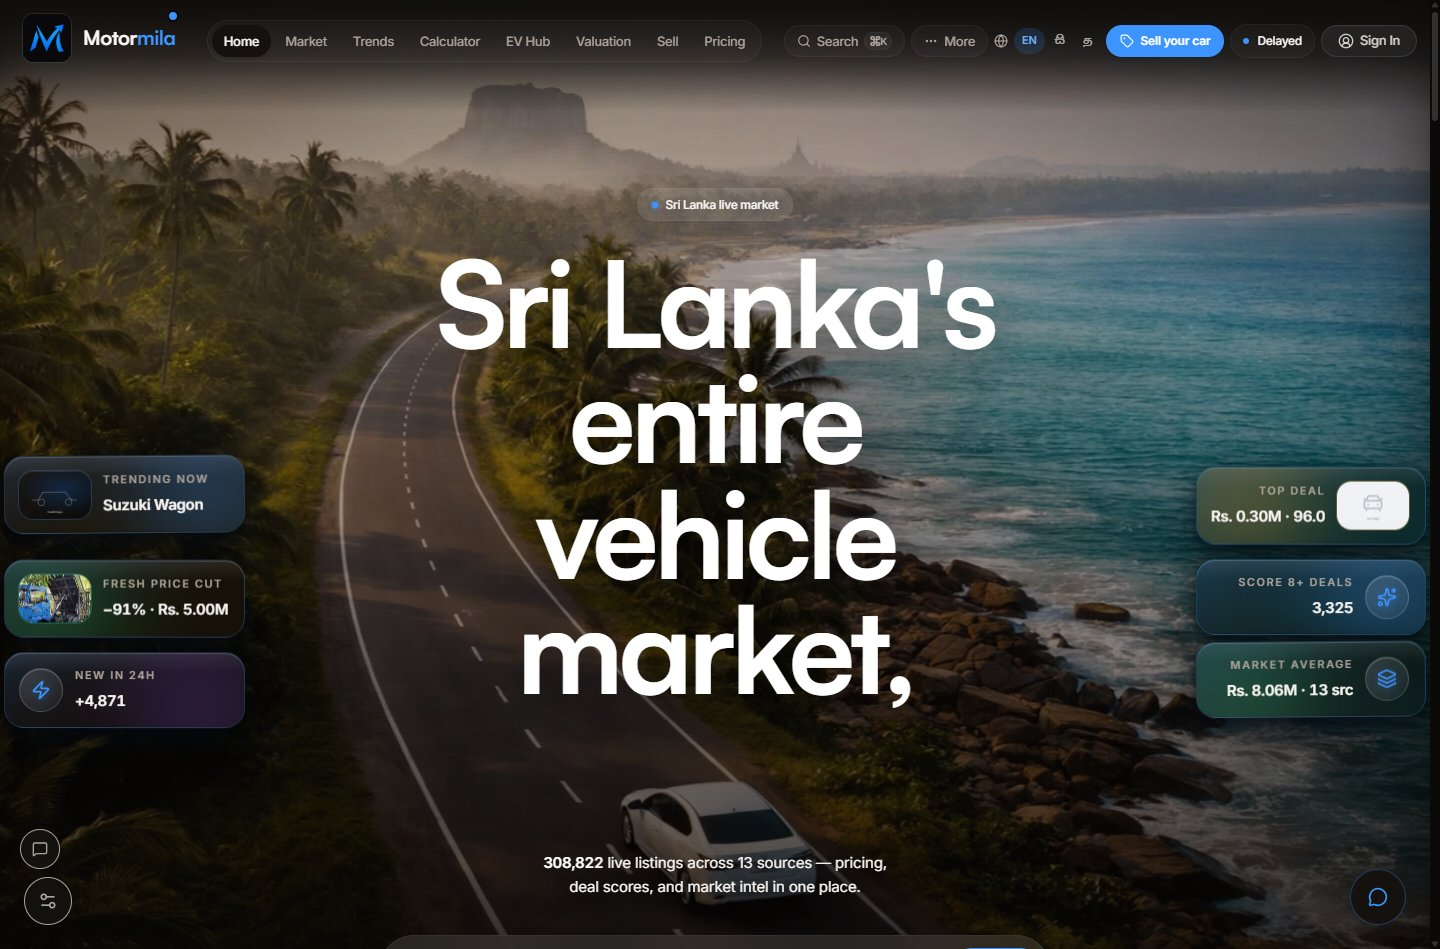
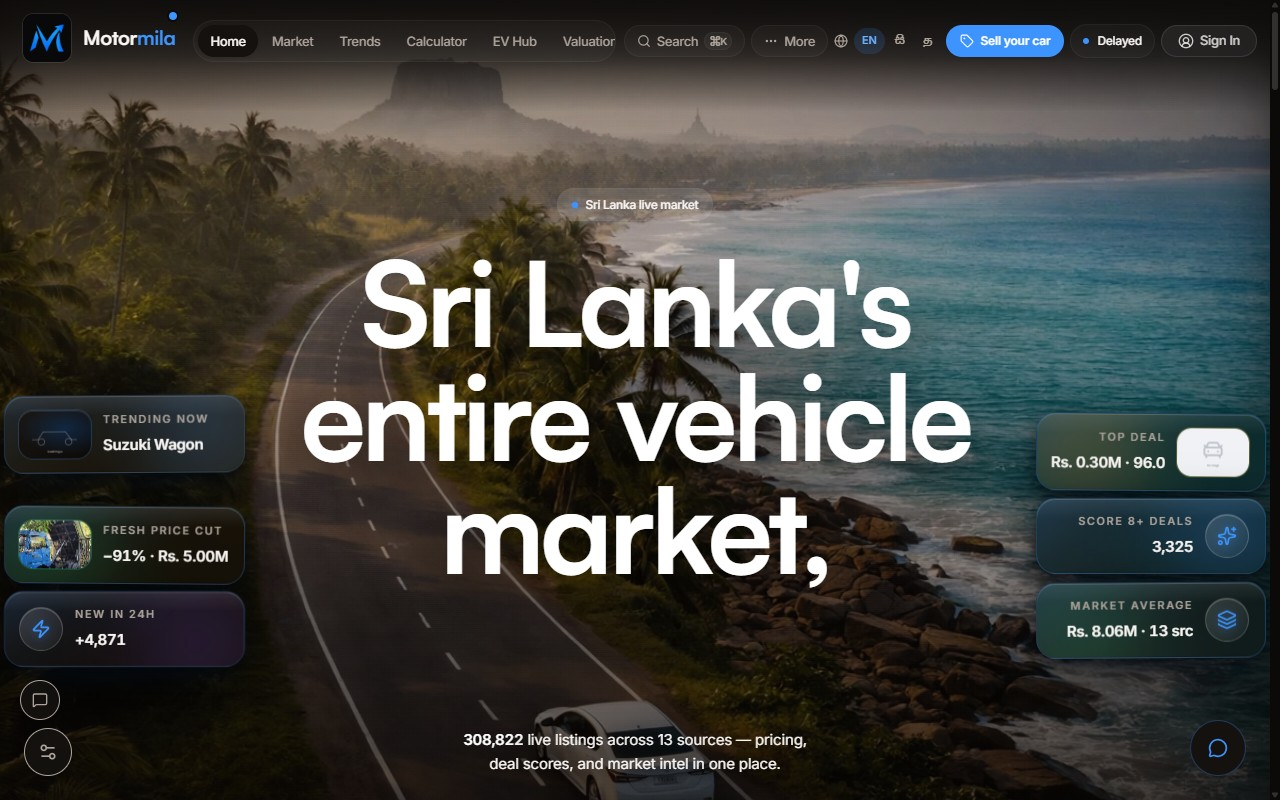
Remove concepts, update Motormila brand assets & screenshot, update hero fan to client sites

diff --git a/data/projects.ts b/data/projects.ts
@@ -48,8 +48,8 @@ export const PROJECTS: Project[] = [
     url: "https://propertylk-one.vercel.app/",
   },
   {
-    id: "motormila-lk",
-    title: "Motormila LK",
+    id: "motormila",
+    title: "Motormila",
     category: "Vehicle Market Intelligence",
     image: "/images/motormila.jpg",
     tags: ["Valuation Tools", "Market Trends", "AI Copilot"],
@@ -78,102 +78,6 @@ export const PROJECTS: Project[] = [
     role: "Platform architecture, civic UX, trilingual design system, public API engineering",
     year: "2026",
     url: "https://lankawa.vercel.app/",
-  },
-  {
-    id: "1",
-    title: "Cinnamon Oak Cafe",
-    category: "Cafe & Dining",
-    image: "https://images.unsplash.com/photo-1559925393-8be0ec4767c8?w=720&auto=format&fit=crop&q=72",
-    tags: ["Branding", "Menu Design", "UI/UX"],
-    description:
-      "A warm, tactile digital presence for a specialty café where every pixel reflects the aroma of hand-poured coffee.",
-    status: "Studio concept",
-    problem: "Local cafes often rely on social feeds and static menu PDFs that make the brand feel smaller than the in-store experience.",
-    solution: "Built a warm landing experience with menu-first content, strong photography direction, and clear booking/contact paths.",
-    outcome: "A reusable hospitality concept that shows how a cafe can feel premium without hiding the menu or next action.",
-    role: "Brand direction, UI design, responsive frontend",
-    year: "2025",
-    url: "https://ardeno-cinnamon-cafe.vercel.app",
-  },
-  {
-    id: "2",
-    title: "Lanka Fitness",
-    category: "Health & Wellness",
-    image: "https://images.unsplash.com/photo-1534438327276-14e5300c3a48?w=720&auto=format&fit=crop&q=72",
-    tags: ["Web App", "Membership Portal", "Branding"],
-    description:
-      "A high-energy digital platform for Sri Lanka's premier gym brand with class scheduling and membership management.",
-    status: "Studio concept",
-    problem: "Fitness brands need to sell energy fast, but many sites bury schedules, membership options, and trainer credibility.",
-    solution: "Designed a high-contrast fitness surface with program discovery, membership framing, and mobile-first class browsing.",
-    outcome: "A polished wellness concept for gyms that want leads, signups, and brand confidence in one flow.",
-    role: "UX strategy, interface design, frontend build",
-    year: "2025",
-    url: "https://ardeno-lanka-fitness.vercel.app",
-  },
-  {
-    id: "3",
-    title: "Lanka Motion",
-    category: "Sports & Expo",
-    image: "https://images.unsplash.com/photo-1461896836934-ffe607ba8211?w=720&auto=format&fit=crop&q=72",
-    tags: ["Event Site", "Ticketing", "Animation"],
-    description:
-      "Sri Lanka's premier health, wellness, and performance movement — athletes, experts, and community under one roof.",
-    status: "Studio concept",
-    problem: "Event pages often look generic and fail to make the scale, schedule, and registration path obvious.",
-    solution: "Created a movement-led event concept with bold section pacing, sponsor-ready blocks, and clear ticketing intent.",
-    outcome: "A demo build for sports and expo teams that need a launch page with urgency and credibility.",
-    role: "Event UX, motion direction, responsive frontend",
-    year: "2025",
-    url: "https://ardeno-lanka-motion.vercel.app",
-  },
-  {
-    id: "4",
-    title: "Luxe Lanka",
-    category: "Luxury & Salon",
-    image: "https://images.unsplash.com/photo-1560066984-138dadb4c035?w=720&auto=format&fit=crop&q=72",
-    tags: ["Booking System", "E-Commerce", "Branding"],
-    description:
-      "An indulgent digital salon experience with silky transitions and a refined appointment booking flow.",
-    status: "Studio concept",
-    problem: "Salon sites can look beautiful while still making services, pricing, and booking feel unclear on mobile.",
-    solution: "Built a luxury service flow with refined treatment discovery, polished visual rhythm, and booking-led CTAs.",
-    outcome: "A premium beauty concept showing how brand feel and appointment conversion can work together.",
-    role: "Luxury UI direction, booking UX, frontend build",
-    year: "2025",
-    url: "https://ardeno-luxe-lanka.vercel.app",
-  },
-  {
-    id: "5",
-    title: "Urban Kitchen",
-    category: "Restaurant & Food",
-    image: "https://images.unsplash.com/photo-1414235077428-338989a2e8c0?w=720&auto=format&fit=crop&q=72",
-    tags: ["Online Ordering", "Menu Design", "UI/UX"],
-    description:
-      "A bold, appetite-driven web presence with digital menu, reservations, and online ordering.",
-    status: "Studio concept",
-    problem: "Restaurant visitors want food, location, and ordering options quickly, especially from a phone.",
-    solution: "Created a direct restaurant experience with strong menu hierarchy, appetite-driven imagery, and order/reserve paths.",
-    outcome: "A food brand concept built to reduce friction from first impression to table or checkout.",
-    role: "Menu UX, visual design, responsive frontend",
-    year: "2025",
-    url: "https://ardeno-urban-kitchen.vercel.app",
-  },
-  {
-    id: "6",
-    title: "Global Jet Concierge",
-    category: "Private Aviation & Concierge",
-    image: "https://images.unsplash.com/photo-1540962351504-03099e0a754b?w=900&auto=format&fit=crop&q=72",
-    tags: ["Framer Motion", "Premium UI", "Aviation"],
-    description:
-      "A cinematic digital experience for ultra-high-net-worth individuals with fluid layout transitions.",
-    status: "Live concept build",
-    problem: "High-ticket concierge offers need immediate trust, premium pacing, and low-friction lead capture.",
-    solution: "Designed a cinematic aviation experience with restrained motion, concierge positioning, and clear enquiry paths.",
-    outcome: "A flagship concept that demonstrates Ardeno's premium interface, motion, and conversion direction.",
-    role: "Creative direction, motion system, frontend build",
-    year: "2025",
-    url: "https://global-jet-concierge.vercel.app/",
   },
   {
     id: "dinaya-lk",
@@ -283,4 +187,4 @@ export const PROJECTS: Project[] = [
 ];
 
 export const HERO_FEATURED =
-  PROJECTS.find((project) => project.id === "6") ?? PROJECTS[0];
+  PROJECTS.find((project) => project.id === "octane") ?? PROJECTS[0];

diff --git a/components/Website/Site.tsx b/components/Website/Site.tsx
@@ -11,8 +11,8 @@ import { Hero } from './Hero';
 import { StickerPlayground } from './StickerPlayground';
 import { cn, navigation } from './utils';
 
-// The Work section, in order: the platforms, the live websites, then two studio concepts (ids 1 and 4).
-const SHOWCASE_IDS = ['octane', 'propertylk', 'motormila-lk', 'lankawa', 'dinaya-lk', 'koel-cse', 'serendib-trading', 'ceylon-stories', 'ceylon-hygiene', 'wax-in-the-city', '1', '4'];
+// The Work section, in order: the platforms, then the live websites.
+const SHOWCASE_IDS = ['octane', 'propertylk', 'motormila', 'lankawa', 'dinaya-lk', 'koel-cse', 'serendib-trading', 'ceylon-stories', 'ceylon-hygiene', 'wax-in-the-city'];
 export const showcase = SHOWCASE_IDS.map(id => PROJECTS.find(project => project.id === id)).filter((project): project is Project => Boolean(project));
 
 export function Wordmark() { return <span className="site-wordmark">ardeno<span>studio</span></span>; }
@@ -114,7 +114,7 @@ function SectionLabel({ number, children }: { number: string; children: React.Re
 }
 
 // Filter name -> the status it shows (All work shows everything).
-const WORK_FILTERS: Record<string, string> = { Platforms: 'Ardeno platform', Websites: 'Live website', Concepts: 'Studio concept' };
+const WORK_FILTERS: Record<string, string> = { Platforms: 'Ardeno platform', Websites: 'Live website' };
 const WORK_LABELS = ['All work', ...Object.keys(WORK_FILTERS)];
 
 function Work() {
@@ -130,7 +130,7 @@ function Work() {
   const filtered = showcase.filter(project => filter === 'All work' || project.status === WORK_FILTERS[filter]);
   return <section id="work" className="site-section work-section">
     <SectionLabel number="01">Selected work</SectionLabel>
-    <div className="section-heading"><h2><>Independent ideas.<br /><span>Made real.</span></></h2><div className="heading-aside"><p>Real platforms, live websites and studio concepts.<br />Different challenges. The same care.</p><div ref={filtersRef} className="work-filters" aria-label="Filter selected work">{WORK_LABELS.map(value => <button key={value} onClick={() => setFilter(value)} aria-pressed={filter === value} className={cn(filter === value && 'is-active')}>{value}</button>)}<span className="filter-indicator" aria-hidden="true" /></div></div></div>
+    <div className="section-heading"><h2><>Independent ideas.<br /><span>Made real.</span></></h2><div className="heading-aside"><p>Real platforms and live websites.<br />Different challenges. The same care.</p><div ref={filtersRef} className="work-filters" aria-label="Filter selected work">{WORK_LABELS.map(value => <button key={value} onClick={() => setFilter(value)} aria-pressed={filter === value} className={cn(filter === value && 'is-active')}>{value}</button>)}<span className="filter-indicator" aria-hidden="true" /></div></div></div>
     <div className="project-grid" aria-live="polite">{filtered.map((project) => <article className={cn('project-card', `project-${project.id}`)} key={project.id}>
       <button className="project-visual" onClick={() => openProject(project)} aria-label={`View ${project.title} project`}>
         <span className="project-status">{project.status === 'Ardeno platform' ? 'Live platform' : project.status === 'Live website' ? 'Live website' : 'Studio concept'}</span>
@@ -419,6 +419,8 @@ const PIXEL_COLORS = ['#ff3301', '#ff6a45', '#ffa088']; // Signal and two tints 
 const LOOKS: Record<string, Look> = {
   // Octane's italic wordmark as octane-smoky.vercel.app publishes it (the viewBox trimmed to the letters); one flat amber for the dots
   octane: { logo: { src: '/images/logos/octane-logo.svg', width: 92, height: 27 }, pixels: ['#F7A711'] },
+  // Motormila's Apex M mark beside its name; dots in its electric blue and tints
+  motormila: { logo: { src: '/images/logos/motormila-mark.png', width: 32, height: 32, text: 'Motormila' }, pixels: ['#0A7AFF', '#4098FF', '#80BCFF'] },
   // Dinaya's paperclip mark beside its wordmark (dinaya-lk.vercel.app sets it as the text "Dinaya.lk" in Cal Sans), spaced as on its login
   // page (.has-text in built.css); dots in the blue of its button
   'dinaya-lk': { logo: { src: '/images/logos/dinaya-mark.svg', width: 27, height: 27, text: 'Dinaya.lk' }, pixels: ['#2566e9', '#608fef', '#99b7f5'] },
@@ -433,7 +435,7 @@ const LOOKS: Record<string, Look> = {
   'ceylon-hygiene': { logo: { src: '/images/logos/chs-mark.svg', width: 52, height: 43 }, pixels: ['#063362', '#496A8C', '#8A9FB5'] },
   'wax-in-the-city': { logo: { src: '/images/logos/wax-in-the-city-logo.webp', width: 60, height: 60 }, pixels: ['#8B1235', '#AA526C', '#C890A0'] },
 };
-const BUILT_IDS = ['octane', 'propertylk', 'motormila-lk', 'lankawa', 'dinaya-lk', 'koel-cse', 'serendib-trading', 'ceylon-stories', 'ceylon-hygiene', 'wax-in-the-city'];
+const BUILT_IDS = ['octane', 'propertylk', 'motormila', 'lankawa', 'dinaya-lk', 'koel-cse', 'serendib-trading', 'ceylon-stories', 'ceylon-hygiene', 'wax-in-the-city'];
 
 function BuiltStrip() {
   const platforms: Built[] = BUILT_IDS.map(id => PROJECTS.find(project => project.id === id)).filter((project): project is Project => Boolean(project)).map(project => ({ ...project, ...LOOKS[project.id] }));

diff --git a/components/Website/website.css b/components/Website/website.css
@@ -42,7 +42,7 @@
 .project-visual:hover img{transform:translateY(-6px)}
 .project-octane .project-visual{background:#eee0c8}
 .project-propertylk .project-visual{background:#ced8d3}
-.project-motormila-lk .project-visual{background:#d7d9e5}
+.project-motormila .project-visual{background:#d7d9e5}
 .project-lankawa .project-visual{background:#d1e0e4}
 .project-dinaya-lk .project-visual{background:#d5def4}
 .project-koel-cse .project-visual{background:#e4dccf}
@@ -50,9 +50,6 @@
 .project-ceylon-stories .project-visual{background:#d3e2da}
 .project-ceylon-hygiene .project-visual{background:#d2dde9}
 .project-wax-in-the-city .project-visual{background:#ecd9de}
-.project-1 .project-visual{background:#dacfc3}
-.project-4 .project-visual{background:#e0d6d1}
-.project-1 .project-visual img,.project-4 .project-visual img{width:100%;height:100%;left:0;top:0;border-radius:0}
 .project-status{position:absolute;top:18px;left:20px;z-index:10;font-size:10px;display:flex;align-items:center;gap:5px;padding:6px 10px;background:#ffffffdb;color:#31332f;border-radius:999px}
 .project-status:before{content:"";height:4px;width:4px;background:currentColor;border-radius:50%}
 .project-open{position:absolute;bottom:18px;right:20px;width:42px;height:42px;border-radius:50%;display:flex;align-items:center;justify-content:center;background:#fff;color:#222;z-index:10}

diff --git a/components/Website/Hero.tsx b/components/Website/Hero.tsx
@@ -4,9 +4,13 @@ import { PROJECTS, type Project } from '../../data/projects';
 import { burstSparks } from './clickSpark';
 
 // Back-to-front order of the fanned project cards; the last one sits on top.
-const FAN_IDS = ['ceylon-hygiene', 'koel-cse', 'dinaya-lk'];
+const FAN_IDS = ['serendib-trading', 'wax-in-the-city', 'ceylon-hygiene'];
 // A card is partly covered by the next one, so its label is the short name the studio uses where the full title is long.
-const FAN_LABELS: Record<string, string> = { 'ceylon-hygiene': 'CHS', 'dinaya-lk': 'Dinaya.lk' };
+const FAN_LABELS: Record<string, string> = {
+  'serendib-trading': 'Serendib',
+  'wax-in-the-city': 'Wax in the City',
+  'ceylon-hygiene': 'CHS',
+};
 const FAN_PROJECTS = FAN_IDS
   .map((id) => PROJECTS.find((project) => project.id === id))
   .filter((project): project is Project => Boolean(project));
